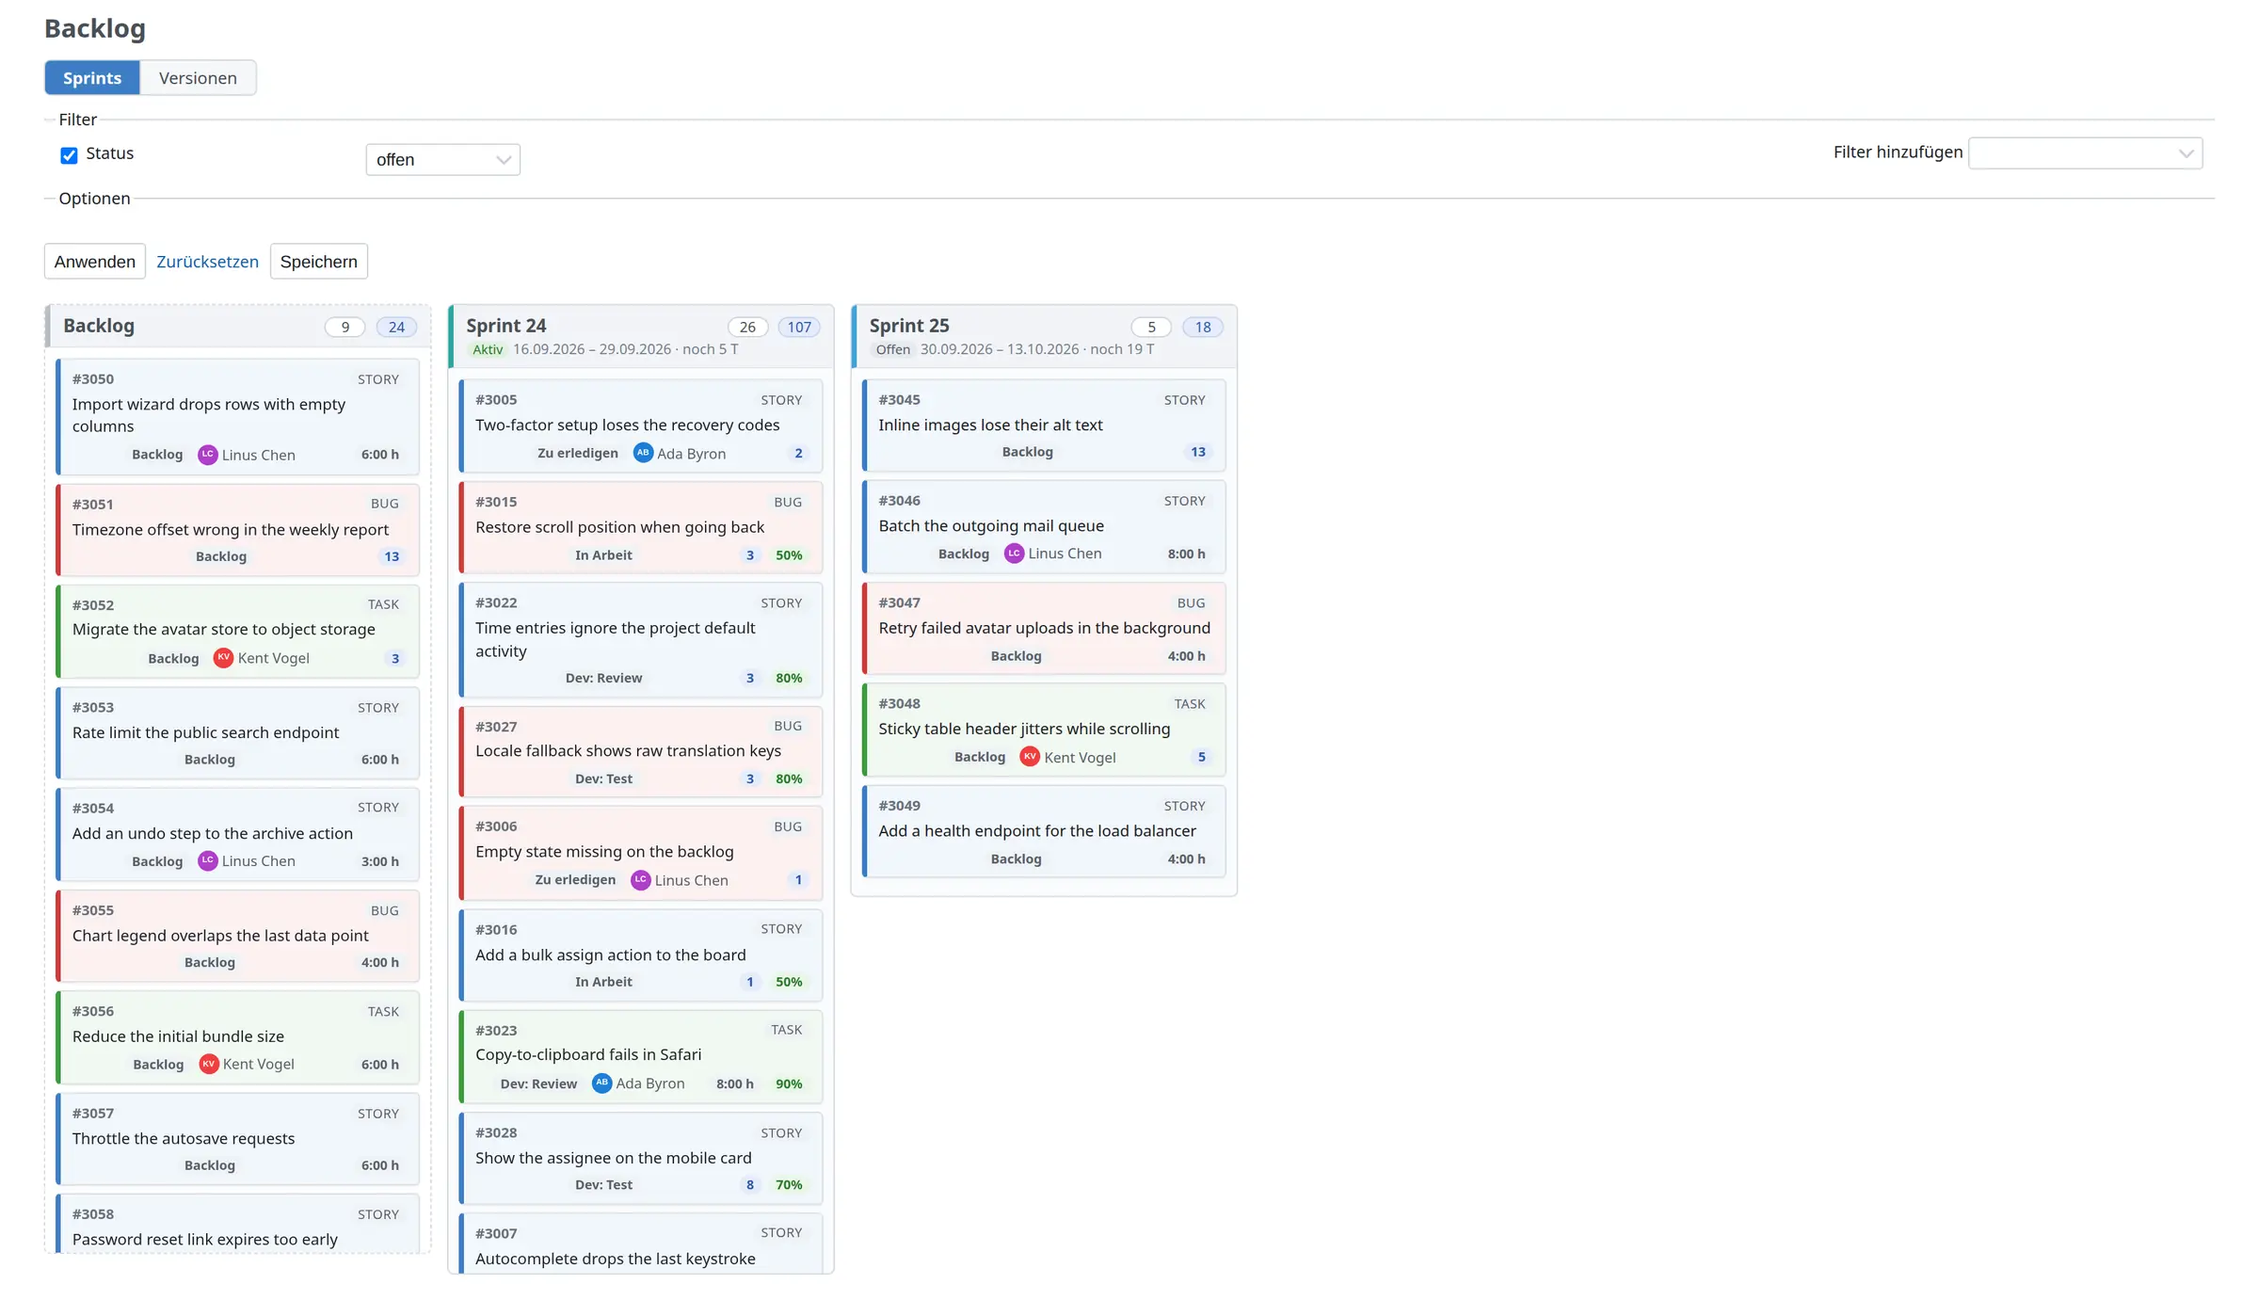
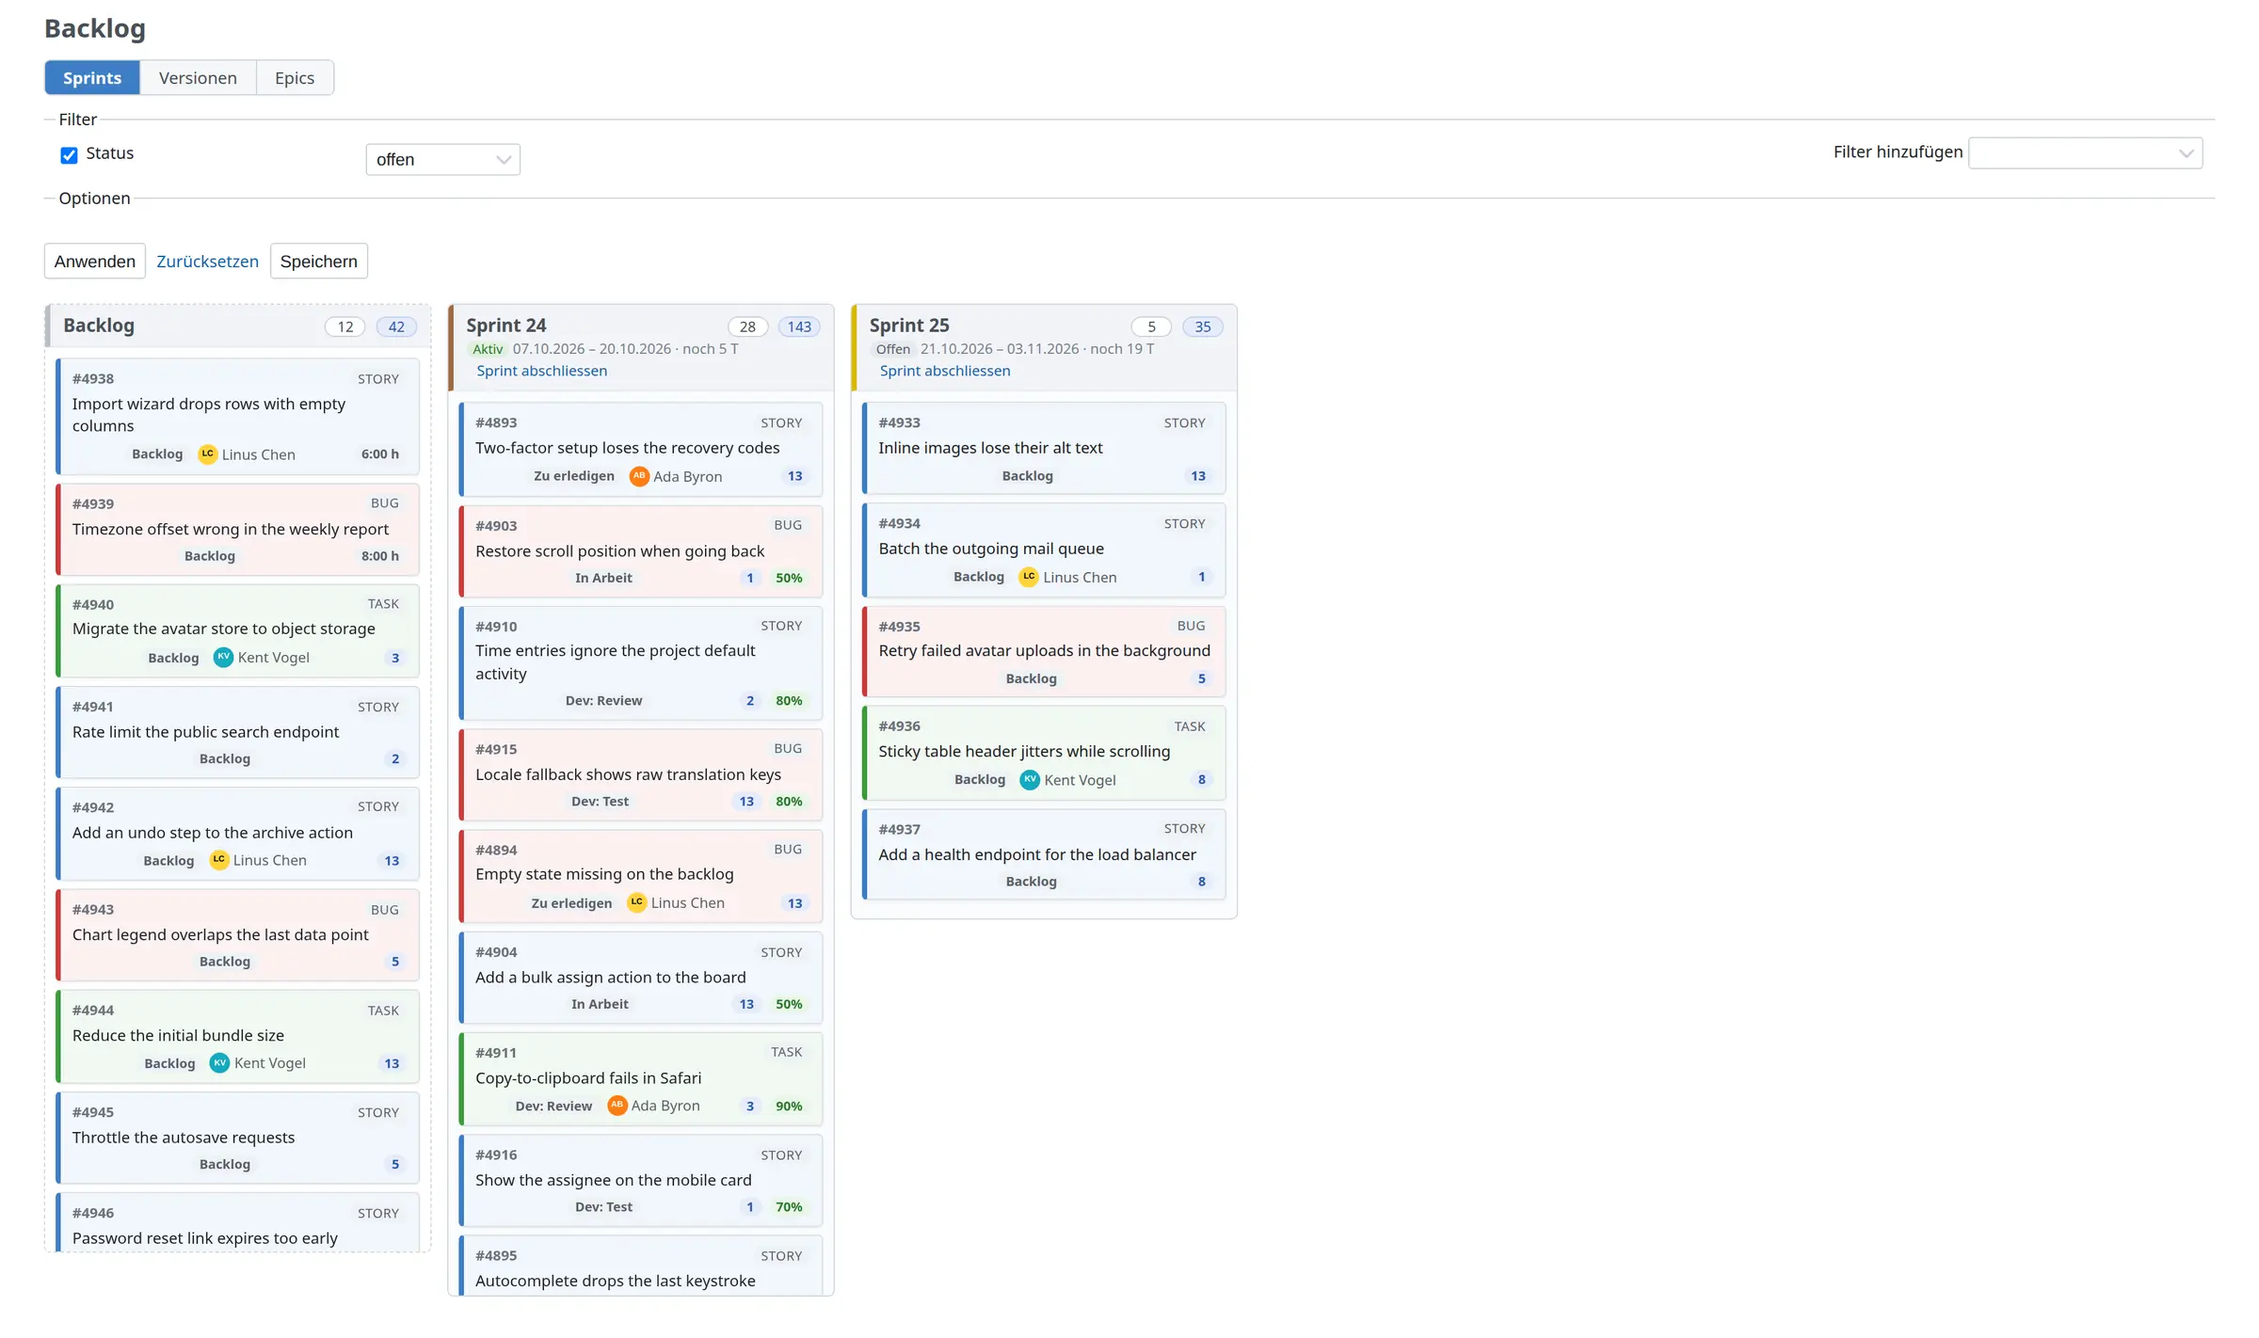
Changed: agile page shows epics, sprint completion and the sprint filter
The agile screenshots dated from 0.5.1. All eleven are recaptured and five are
new: the epic board, the Epics tab, the epic planner, Complete sprint and the
issue list's Sprint filter. Five feature blocks describe them in both
languages, the swimlane block names epics and the global board, and the why
list gains the all-or-nothing sprint completion.

The capture config no longer hardcodes saved query ids: prep/agile.rb looks
the seeded boards, backlogs and charts up by name, because the seed recreates
them with new ids on every run.

diff --git a/tools/capture/prep/agile.rb b/tools/capture/prep/agile.rb
@@ -3,7 +3,10 @@
 #   tools/capture/prep/run.sh agile
 #
 # Changes nothing. Prints `VAR story <id>`: an in-progress story with points in
-# the active sprint, whose edit form shows the Story points and Sprint fields.
+# the active sprint, whose edit form shows the Story points and Sprint fields;
+# `VAR sprint <id>`, the active sprint; `VAR next_sprint <id>`, the one after it; `VAR story_tracker <id>`; and one `VAR <key> <id>` per saved board,
+# backlog and chart, looked up by name — the seed recreates them on every run,
+# so their ids are never the same twice.
 
 abort 'refusing to run without DEMO_STACK=1' unless ENV['DEMO_STACK'] == '1'
 
@@ -16,3 +19,16 @@ story = Issue.joins(:tracker).where(project_id: project.id, trackers: { name: 'S
              .order(:id).first or abort 'no story in the active sprint'
 puts "VAR story #{story.id}"
 puts "VAR sprint #{sprint.id}"
+next_sprint = ExpertAgileSprint.where(project_id: project.id, status: ExpertAgileSprint::STATUS_OPEN)
+                               .order(:start_date).first or abort 'no open sprint after the active one'
+puts "VAR next_sprint #{next_sprint.id}"
+puts "VAR story_tracker #{Tracker.find_by!(name: 'Story').id}"
+
+{ 'board' => 'Sprint board', 'lanes' => 'Sprint board by assignee',
+  'epic_lanes' => 'Sprint board by epic', 'epic_planning' => 'Epic planning',
+  'burndown' => 'Sprint 24 burndown', 'velocity' => 'Velocity, last 60 days',
+  'flow' => 'Cumulative flow, last 60 days' }.each do |key, name|
+  query = Query.where(project_id: project.id, name: name).where("type LIKE 'ExpertAgile%'").first
+  abort "no saved query #{name.inspect} — re-run the agile seed" if query.nil?
+  puts "VAR #{key} #{query.id}"
+end

diff --git a/de/agile.md b/de/agile.md
@@ -52,13 +52,47 @@ features:
       Band je Teammitglied plus ein Band für nicht zugewiesene Tickets, jedes über
       alle fünf Statusspalten.
     body: >-
-      Projekt, Tracker, Status, Priorität, Autor, Bearbeiter, Kategorie oder
-      Zielversion werden zu einer waagerechten Bahn, jeweils mit eigener
+      Projekt, Tracker, Status, Priorität, Autor, Bearbeiter, Kategorie,
+      Zielversion oder Epic werden zu einer waagerechten Bahn, jeweils mit eigener
       Ticketzahl und Story-Point-Summe. Das sind die Felder, nach denen ein Team
       seine Arbeit tatsächlich aufteilt; Fortschritt, Datumsfelder und das
       Privat-Kennzeichen werden nicht angeboten. Boards lassen sich privat speichern oder
       mit dem Projekt teilen, und das Board eines Oberprojekts trägt die Tickets
-      seiner Unterprojekte mit.
+      seiner Unterprojekte mit. Das globale Board, verlinkt im Anwendungsmenü,
+      trägt alle Projekte, die Sie sehen dürfen.
+
+  - kicker: Epics
+    title: Epic, Story, Unteraufgabe — auf Redmines eigenem Unteraufgaben-Baum
+    shot: 12-board-epics
+    caption: >-
+      Sprint-Board nach Epic gruppiert: eine Swimlane je Epic mit seinem
+      Fortschrittsbalken im Kopf und eine letzte Bahn für Tickets ohne Epic.
+      Eine Story in Arbeit zeigt „Erledigte Unteraufgaben: 1/3“, ihre
+      Unteraufgaben stehen in ihren eigenen Spalten.
+    body: >-
+      Sie wählen die Tracker, deren Tickets Epics sind, und ein Ticket gehört
+      zum nächsten Epic über ihm in Redmines Unteraufgaben-Baum — keine eigene
+      Tabelle, kein benutzerdefiniertes Feld; der Filter „Übergeordnetes
+      Ticket“, die REST-API, das Gantt-Diagramm und die Story-Point-Summen sehen
+      deshalb dasselbe. Karten tragen ihr Epic als farbiges Badge, eine
+      Unteraufgabe nennt ihre Story, und eine Story zählt ihre erledigten
+      Unteraufgaben. Nach Epic gruppiert bekommt jedes Epic eine Bahn mit seinem
+      Fortschritt im Kopf; eine Story in die Bahn eines anderen Epics zu ziehen
+      verschiebt sie dorthin.
+
+  - kicker: Epic-Übersicht
+    title: Jedes Epic, seine Stories und deren Unteraufgaben in einem Baum
+    shot: 13-epics
+    caption: >-
+      Reiter Epics: jedes Epic mit Status, Fortschrittsbalken und erledigten
+      Tickets und Story Points über einer Tabelle seiner Stories; die
+      Unteraufgaben einer Story stehen eingerückt darunter.
+    body: >-
+      Der Reiter Epics listet jedes offene Epic des Projekts mit dem, was
+      erledigt ist — Tickets und Story Points, als Balken und in Zahlen — und
+      seine Stories und Unteraufgaben als Baum mit Status, Bearbeiter und
+      Punkten. Derselbe Fortschritt steht auf der Ticketseite des Epics. Gezählt
+      werden nur Tickets, die der Leser sehen darf.
 
   - kicker: Farben
     title: Jede Farbe — nach Tracker, Status, Priorität oder Projekt
@@ -140,6 +174,53 @@ features:
       hat dasselbe Filter-Panel und dieselben Kartenfelder wie das Board,
       speichert benannte Backlogs und merkt sich, wo Sie zuletzt waren.
 
+  - kicker: Epic-Planung
+    title: Stories in Epics planen wie in Sprints
+    shot: 14-backlog-epics
+    caption: >-
+      Backlog-Planer im Reiter Epics: Stories ohne Epic links, daneben eine
+      Bahn je offenem Epic mit Ticketzahl, Story-Point-Summe und Fortschritt im
+      Kopf; jede Karte trägt ihr Epic-Badge.
+    body: >-
+      Ein dritter Reiter im Planer stellt die Stories ohne Epic neben eine Bahn
+      je offenem Epic. Eine Story in ein Epic zu ziehen macht sie zu dessen
+      Unteraufgabe — mit Journaleintrag und unter der Berechtigung,
+      Unteraufgaben zu verwalten —, und ihre eigenen Unteraufgaben gehen mit.
+
+  - kicker: Sprint-Abschluss
+    title: Einen Sprint in einem Schritt abschließen
+    shot: 15-sprint-complete
+    caption: >-
+      Seite Sprint abschließen: wie viele Tickets erledigt und noch offen sind
+      samt Story Points, die offenen Tickets als Liste und die Wahl zwischen
+      nächstem Sprint, Backlog oder einem neuen Sprint mit vorgeschlagenem Namen
+      und Datum, dazu „Ziel-Sprint zum aktiven Sprint machen“.
+    body: >-
+      **Sprint abschließen** zeigt, was erledigt und was noch offen ist, und
+      verschiebt die offenen Tickets in den nächsten Sprint, zurück ins Backlog
+      oder in einen neuen Sprint, der gleich mit hochgezähltem Namen und
+      anschließenden Daten angelegt wird. Der Sprint wird geschlossen, und das
+      Ziel kann zum aktiven Sprint werden — ein Board, das dem aktiven Sprint
+      folgt, stimmt dann sofort. Jedes Ticket wird wie im Planer verschoben,
+      unter denselben Berechtigungen und der eigenen Validierung des Tickets;
+      lässt sich ein einziges nicht verschieben, wird nichts geschrieben, und die
+      Seite sagt, welches und warum. Auch über die REST-API.
+
+  - kicker: Ticketliste
+    title: Die Ticketliste kennt den Sprint
+    shot: 16-issue-list-sprint
+    caption: >-
+      Redmines Ticketliste, gefiltert auf offene Stories im aktiven und im
+      nächsten Sprint, nach der Spalte Sprint in Sprint 24 und Sprint 25
+      gruppiert, mit einer Spalte Story Points.
+    body: >-
+      Redmines eigene Ticketliste bekommt einen Filter **Sprint** — ein oder
+      mehrere Sprints, **Aktiver Sprint**, bei jedem Aufruf neu aufgelöst,
+      irgendeiner oder keiner — und eine Spalte **Sprint**, die sortiert,
+      gruppiert und in den CSV-Export geht. Gespeicherte Listen wie „alles im
+      laufenden Sprint“, Sprint-Exporte und Sammelbearbeitungen der Tickets
+      eines Sprints gehen damit von selbst.
+
   - kicker: Diagramme
     title: Fünf Diagramme, aus dem was tatsächlich passiert ist
     shot: 06-chart-burndown
@@ -163,6 +244,7 @@ why:
   - "**Workflow-Grenzen zeigen sich vor dem Ablegen, Ablehnungen erklären sich.** Gesperrte Spalten sind schon beim Ziehen markiert. Was der Workflow nicht im Voraus wissen kann — etwa ein Feld, das der neue Status verlangt —, wird nach dem Ablegen abgelehnt; die Meldung nennt Tracker und beide Status, listet die Übergänge auf, die *erlaubt* sind, und bietet Administratoren einen direkten Link zum Workflow dieses Trackers."
   - "**Agile-Rechte sind Redmines Rechte.** Eine Bewegung, die den Status ändert, braucht dieselbe Berechtigung wie im Ticketformular, Story-Point-Summen zählen nur Tickets, die der Leser sehen darf, und ein globales Board, Diagramm oder Backlog zu veröffentlichen bleibt Administratoren vorbehalten — wie bei Queries im Kern."
   - "**Die REST-API schreibt, nicht nur liest** — Story Points und Sprintzuordnung sind beide schreibbar, und für Sprints gibt es vollständiges CRUD."
+  - "**Einen Sprint abzuschließen gelingt ganz oder gar nicht.** Die Tickets wandern und der Sprint schließt in einer Transaktion; ein Sprint bleibt nie halb verschoben zurück — ein einziges Ticket, das nicht verschoben werden darf, hält alles an und wird genannt."
 
 install:
   step1: "Release-Archiv herunterladen:"

diff --git a/agile.md b/agile.md
@@ -7,7 +7,7 @@ permalink: /agile/
 title: expert Agile
 description: >-
   Kanban and Scrum boards for Redmine built on Redmine's own query system, with
-  story points, first-class sprints, a backlog planner and burndown, burnup,
+  story points, epics, first-class sprints, a backlog planner and burndown, burnup,
   velocity, cumulative-flow and cycle-time charts. GPL-2.0.
 promise: >-
   A Kanban and Scrum board that *is* a Redmine query. Every filter, column,
@@ -43,11 +43,39 @@ features:
     caption: >-
       The same board grouped into swimlanes by assignee: one labelled band per team member plus a band for unassigned issues, each spanning all five status columns.
     body: >-
-      Project, tracker, status, priority, author, assignee, category or target
-      version becomes a horizontal lane, each with its own issue count and
+      Project, tracker, status, priority, author, assignee, category, target
+      version or epic becomes a horizontal lane, each with its own issue count and
       story-point total. Those are the fields a team actually splits its work
       by; percent done, dates and the private flag are not offered. Boards can be saved privately or shared with the
       project, and a parent project's board carries its subprojects' issues.
+      The global board, linked from the application menu, carries every project
+      you may see.
+
+  - kicker: Epics
+    title: Epic, story, subtask — on Redmine's own subtask tree
+    shot: 12-board-epics
+    caption: >-
+      Sprint board grouped by epic: one swimlane per epic, headed by its progress bar, and a last lane for issues without an epic. A story in progress shows "Subtasks done: 1/3", and its subtasks sit in their own columns.
+    body: >-
+      Pick the trackers whose issues are epics, and an issue belongs to the
+      nearest epic above it in Redmine's subtask tree — no extra table, no custom
+      field, so the parent filter, the REST API, the Gantt chart and the story
+      point roll-up all see the same thing. Cards carry their epic as a coloured
+      badge and a subtask names its story; a story counts its subtasks done.
+      Group the board by epic for one lane per epic, each headed by its
+      progress, and drop a story into another epic's lane to move it there.
+
+  - kicker: Epic overview
+    title: Every epic, its stories and their subtasks in one tree
+    shot: 13-epics
+    caption: >-
+      Epics tab: each epic with its status, a progress bar and the issues and story points done, above a table of its stories; a story's subtasks are indented beneath it.
+    body: >-
+      The Epics tab lists every open epic of the project with what is done —
+      issues and story points, as a bar and in numbers — and its stories and
+      subtasks as a tree, with status, assignee and points. The same progress
+      shows on the epic's own issue page. Only issues the reader may see are
+      counted.
 
   - kicker: Colours
     title: Any colour, by tracker, status, priority or project
@@ -115,6 +143,44 @@ features:
       filter panel and card fields as the board, saves named backlogs, and
       remembers where you were when you come back to it.
 
+  - kicker: Epic planning
+    title: Plan stories into epics the way you plan them into sprints
+    shot: 14-backlog-epics
+    caption: >-
+      Backlog planner on its Epics tab: stories without an epic on the left, one lane per open epic beside it, each headed by its issue count, story-point total and progress; every card carries its epic badge.
+    body: >-
+      A third tab in the planner puts the stories without an epic next to one
+      lane per open epic. Dragging a story into an epic makes it that epic's
+      subtask — journaled, under the permission to manage subtasks — and its own
+      subtasks go with it.
+
+  - kicker: Sprint review
+    title: Complete a sprint in one step
+    shot: 15-sprint-complete
+    caption: >-
+      Complete sprint page: how many issues are done and still open with their story points, the open issues listed, and the choice between the next sprint, the backlog or a new sprint with a suggested name and dates, plus "Make the target sprint the active one".
+    body: >-
+      **Complete sprint** shows what was done and what is still open, then
+      moves the open issues to the next sprint, back to the backlog, or into a
+      new sprint created on the spot with its name counted up and its dates
+      following on. It closes the sprint and can make the target the active
+      one, so a board following the active sprint is right straight away. Every
+      issue moves like a planner move, under the same permissions and the
+      issue's own validation; if a single one cannot move, nothing is written and
+      the page says which and why. Also over the REST API.
+
+  - kicker: Issue list
+    title: The issue list knows the sprint
+    shot: 16-issue-list-sprint
+    caption: >-
+      Redmine's issue list filtered to open stories in the active sprint and the next one, grouped by the Sprint column into Sprint 24 and Sprint 25, with a Story points column.
+    body: >-
+      Redmine's own issue list gains a **Sprint** filter — one or more sprints,
+      **Active sprint** resolved each time the list runs, any sprint or none —
+      and a **Sprint** column that sorts, groups and goes into the CSV export.
+      Saved lists such as "everything in the current sprint", sprint exports and
+      bulk edits of a sprint's issues come with it.
+
   - kicker: Charts
     title: Five charts, from what actually happened
     shot: 06-chart-burndown
@@ -135,6 +201,7 @@ why:
   - "**Workflow limits show before the drop, and refusals say why.** Blocked columns are marked while you drag. What the workflow cannot know in advance — a field the new status requires, say — is refused after the drop with the tracker and both statuses named, the transitions that *are* open listed, and a link for admins straight to that tracker's workflow."
   - "**Agile rights are Redmine's rights.** A drag that changes a status needs the same permission the issue form needs for it, story-point totals count only issues the reader may see, and publishing a global board, chart or backlog is reserved for administrators, as it is for queries in core."
   - "**The REST API writes, not just reads** — story points and sprint assignment are both writable, and sprints have full CRUD."
+  - "**Completing a sprint is all or nothing.** The issues move and the sprint closes in one transaction, so a sprint is never left half-moved — one issue that may not move stops the lot, and is named."
 
 install:
   step1: "Download the release archive:"
